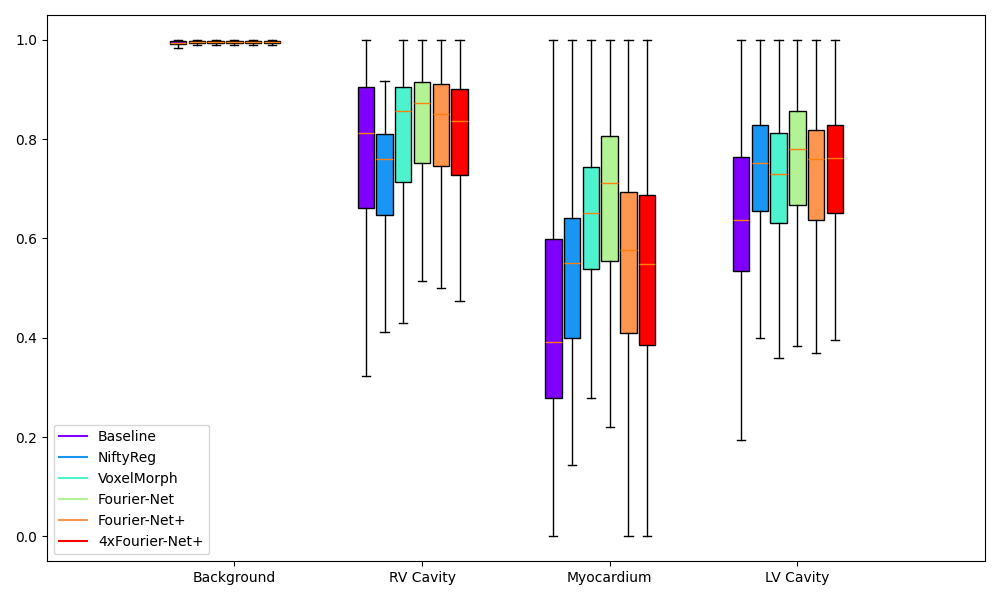
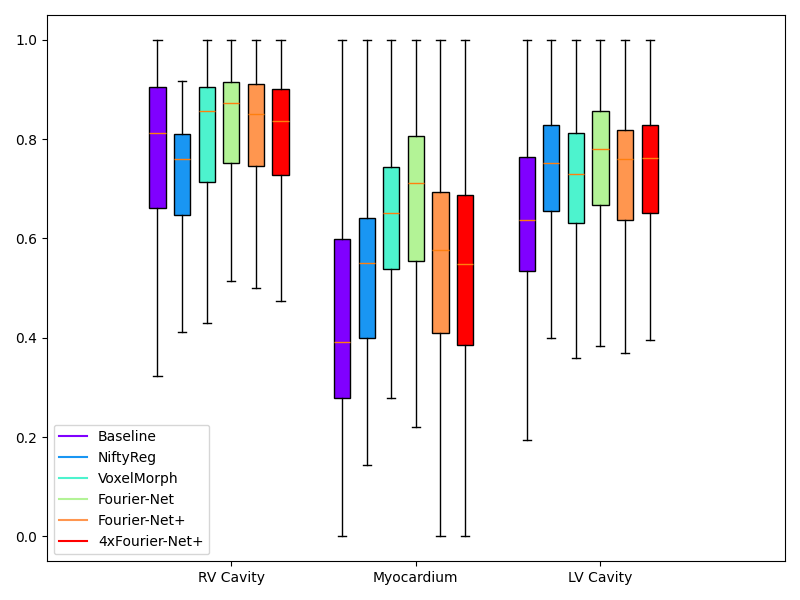
Removed background from the dice score boxplot and fixed smaller issues with the create_boxplot function.

diff --git a/2D_CMR_Registration/Functions.py b/2D_CMR_Registration/Functions.py
@@ -1034,10 +1034,13 @@ def create_boxplot(savename=None, title=None, data=None, labels=None, legend=Non
         raise ValueError('Data is missing!!')
 
     # make sure that every data point has a label in the legend
-    assert data.shape[0] == len(legend), f"Number of data arrays must be the same as the number of elements in the legend!"
+    assert data.shape[0] == len(legend), f"Expected number of data arrays to be the same as number of elements in the legend, but got {data.shape[0]} and {len(legend)}"
+    
+    # make sure that every data point has a label in the legend
+    assert data.shape[1] == len(labels), f"Expected number of data arrays to be the same as number of labels, but got {data.shape[1]} and {len(labels)}"
     
     # make sure that offsets math number of boxplots
-    assert data.shape[0] == len(offsets), f"Number of data arrays must be the same as the number of offsets!"
+    assert data.shape[0] == len(offsets), f"Expected number of data arrays to be the same as number of offsets, but got {data.shape[0]} and {len(offsets)}"
     
     # init colors for plots
     color = cm.rainbow(np.linspace(0, 1, data.shape[0]))
@@ -1045,7 +1048,9 @@ def create_boxplot(savename=None, title=None, data=None, labels=None, legend=Non
     # interate through size of data
     for i in range(data.shape[0]):
         # reformat data for boxplots (array with array containing the label scores)
-        data_newFormat = [data[i,0,:], data[i,1,:], data[i,2,:], data[i,3,:]]
+        data_newFormat = []
+        for j in range(data.shape[1]):
+            data_newFormat.append(data[i,j,:]) 
         # create boxplot
         bp = plt.boxplot(data_newFormat, positions=np.array(range(len(data_newFormat)))*2+offsets[i], sym='', widths=width, patch_artist=True) 
         # set colors for boxes

diff --git a/2D_CMR_Registration/Boxplots_DiceScores.py b/2D_CMR_Registration/Boxplots_DiceScores.py
@@ -46,13 +46,13 @@ with open(csv_name,'r') as csvfile:
 #print('Mean Dice scores:\n    Baseline          {}\n    NiftyReg          {}\n    VoxelMorph        {}\n    Fourier-Net       {}\n    Fourier-Net+      {}\n    4xFourier-Net+   {}'.format(np.mean(DICE_test[0,:,:]), np.mean(DICE_test[1,:,:]), np.mean(DICE_test[2,:,:]), np.mean(DICE_test[3,:,:]), np.mean(DICE_test[4,:,:]), np.mean(DICE_test[5,:,:])))
 
 # create labels for the x axis
-labels = ['Background', 'RV Cavity', 'Myocardium', 'LV Cavity']
+labels = ['RV Cavity', 'Myocardium', 'LV Cavity'] #'Background', 
 # create legend 
 legend = ['Baseline','NiftyReg','VoxelMorph','Fourier-Net','Fourier-Net+','4xFourier-Net+']
 # create path to save the boxplot to
 save_path = '/home/jmeyer/storage/students/janmeyer_711878/Master-Arbeit/Thesis/Images/Boxplot_DiceScores.png'
 # init offsets so that plots do not overlap
-offsets = np.arange(start=-0.6,stop=0.6,step=1.2/DICE_test.shape[0])
+offsets = np.arange(start=-0.8,stop=0.8,step=1.6/DICE_test.shape[0])
 #print('offsets: ',offsets)
-# create boxplot for MSE
-create_boxplot(savename=save_path, data=DICE_test, labels=labels, legend=legend, figure_size=(10, 6), offsets=offsets, width=0.175)
+# create boxplot for Dice scores (without background)
+create_boxplot(savename=save_path, data=DICE_test[:,1:4,:], labels=labels, legend=legend, figure_size=(8, 6), offsets=offsets, width=0.175)
